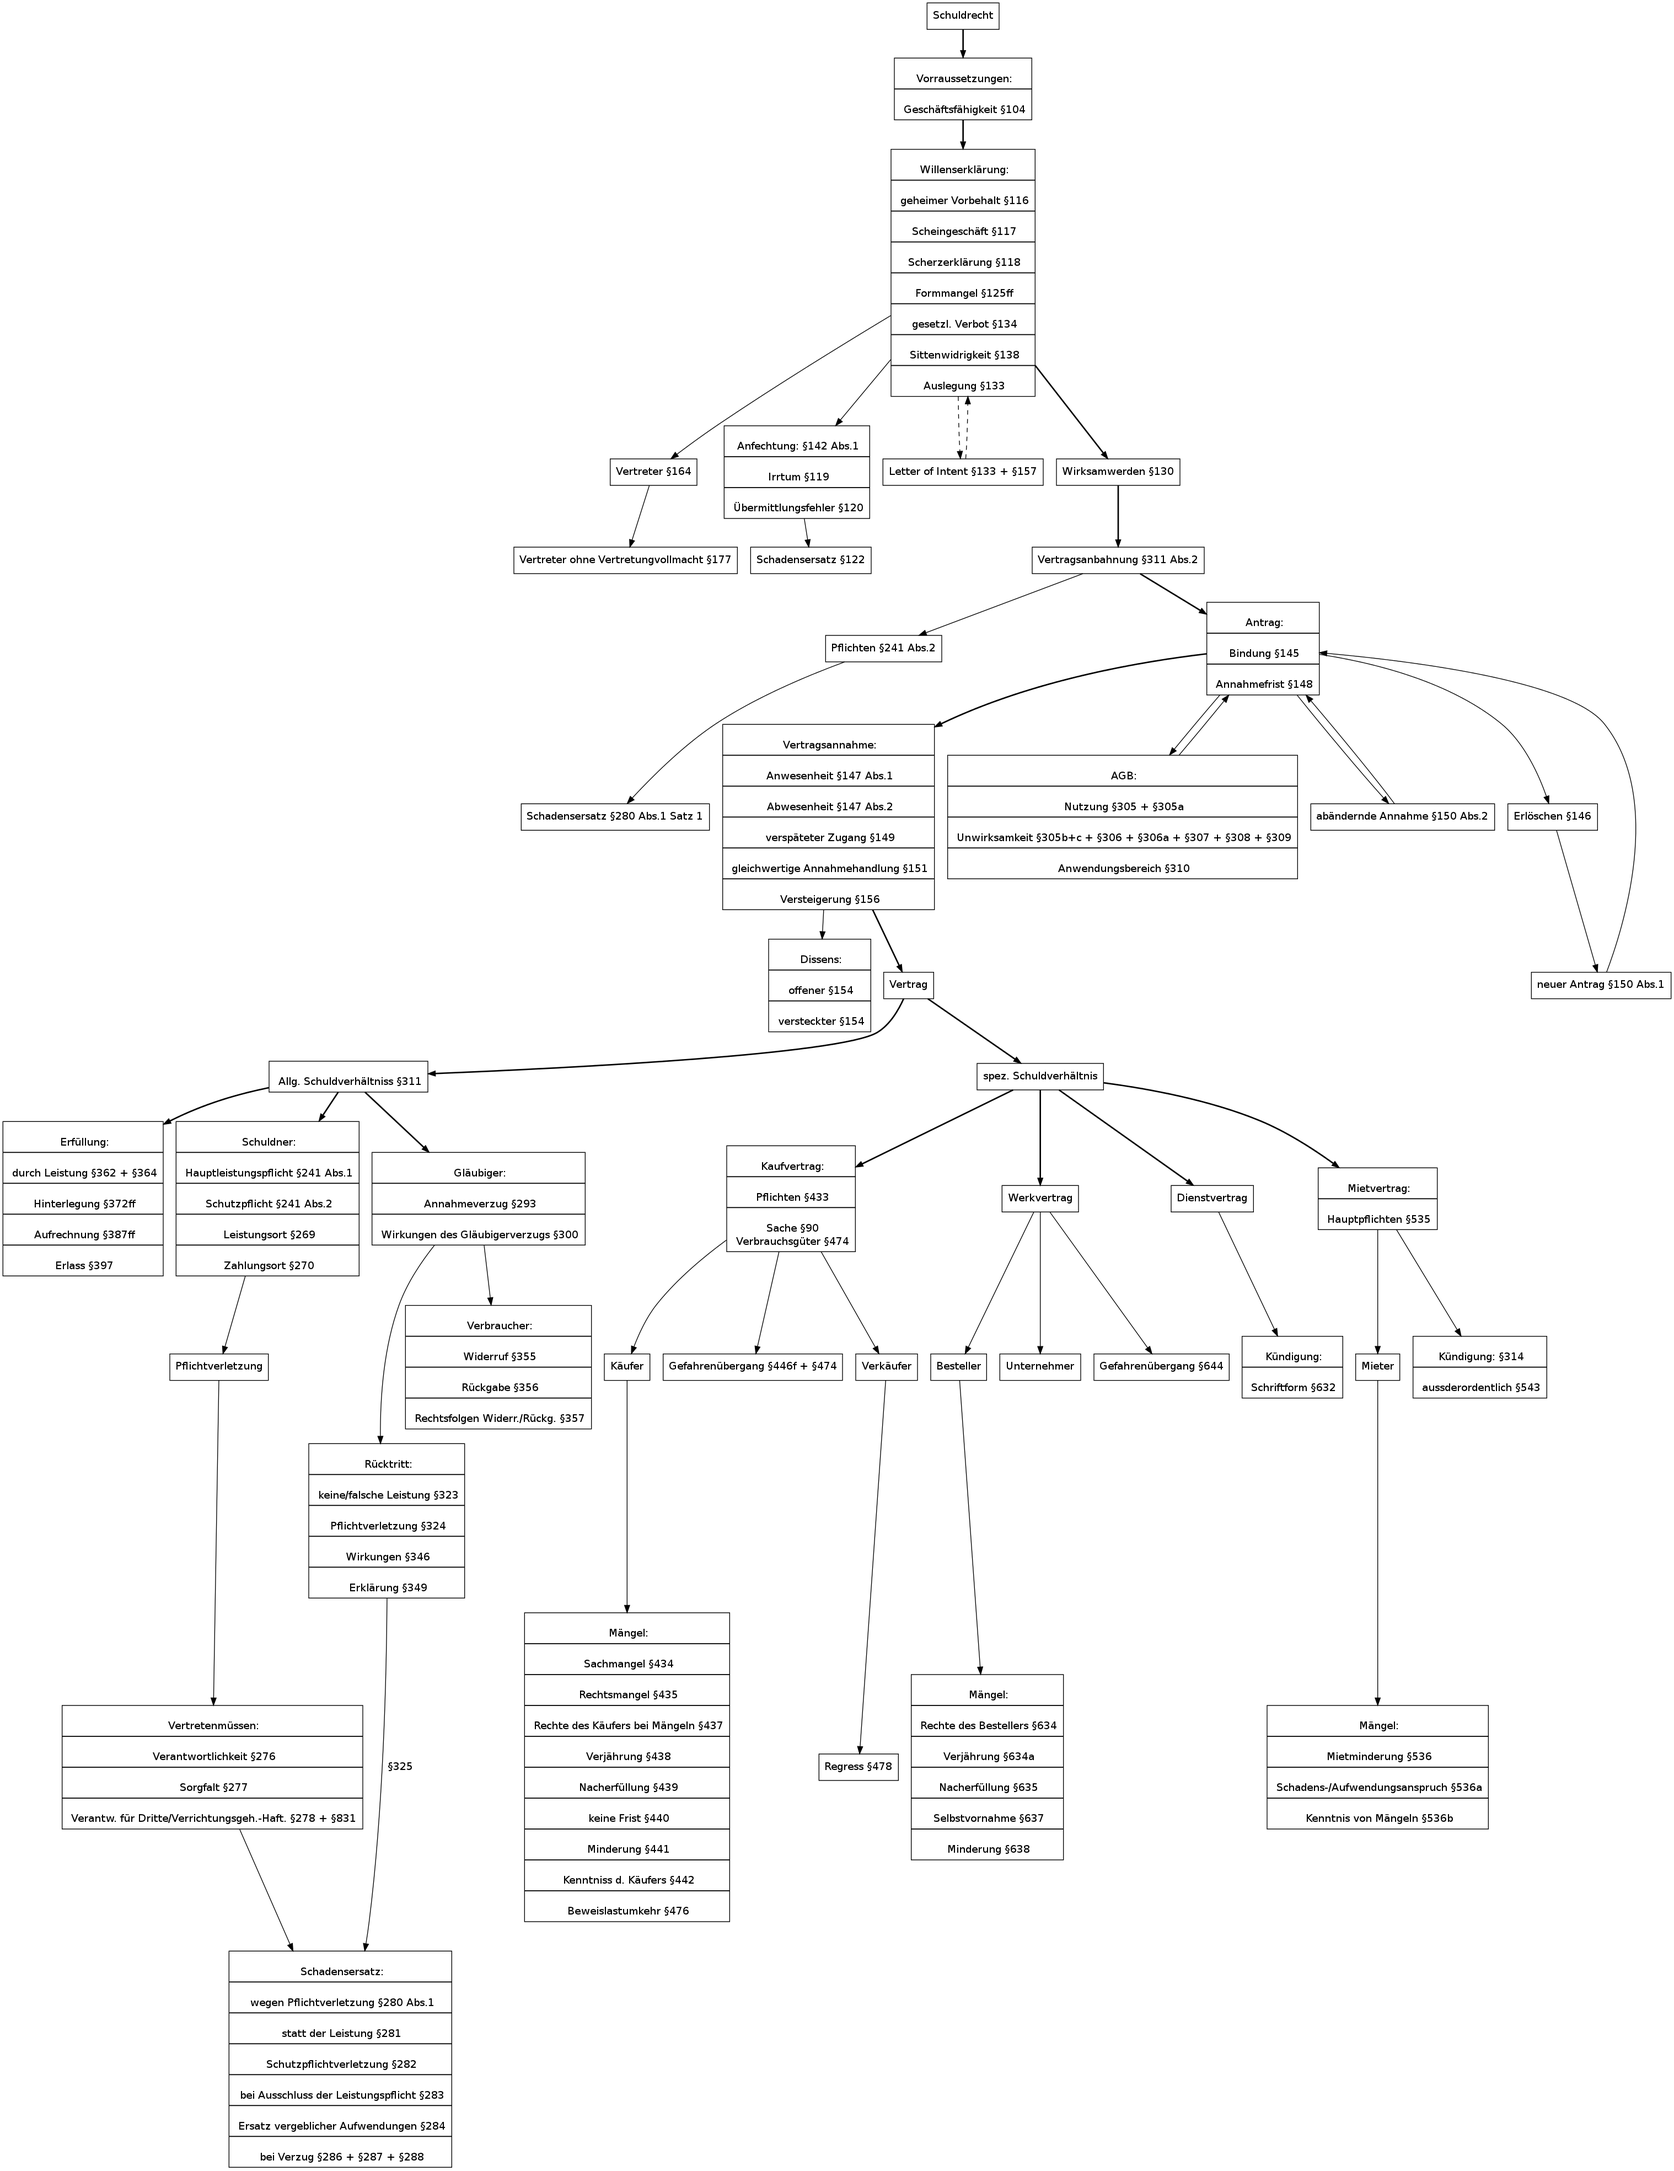
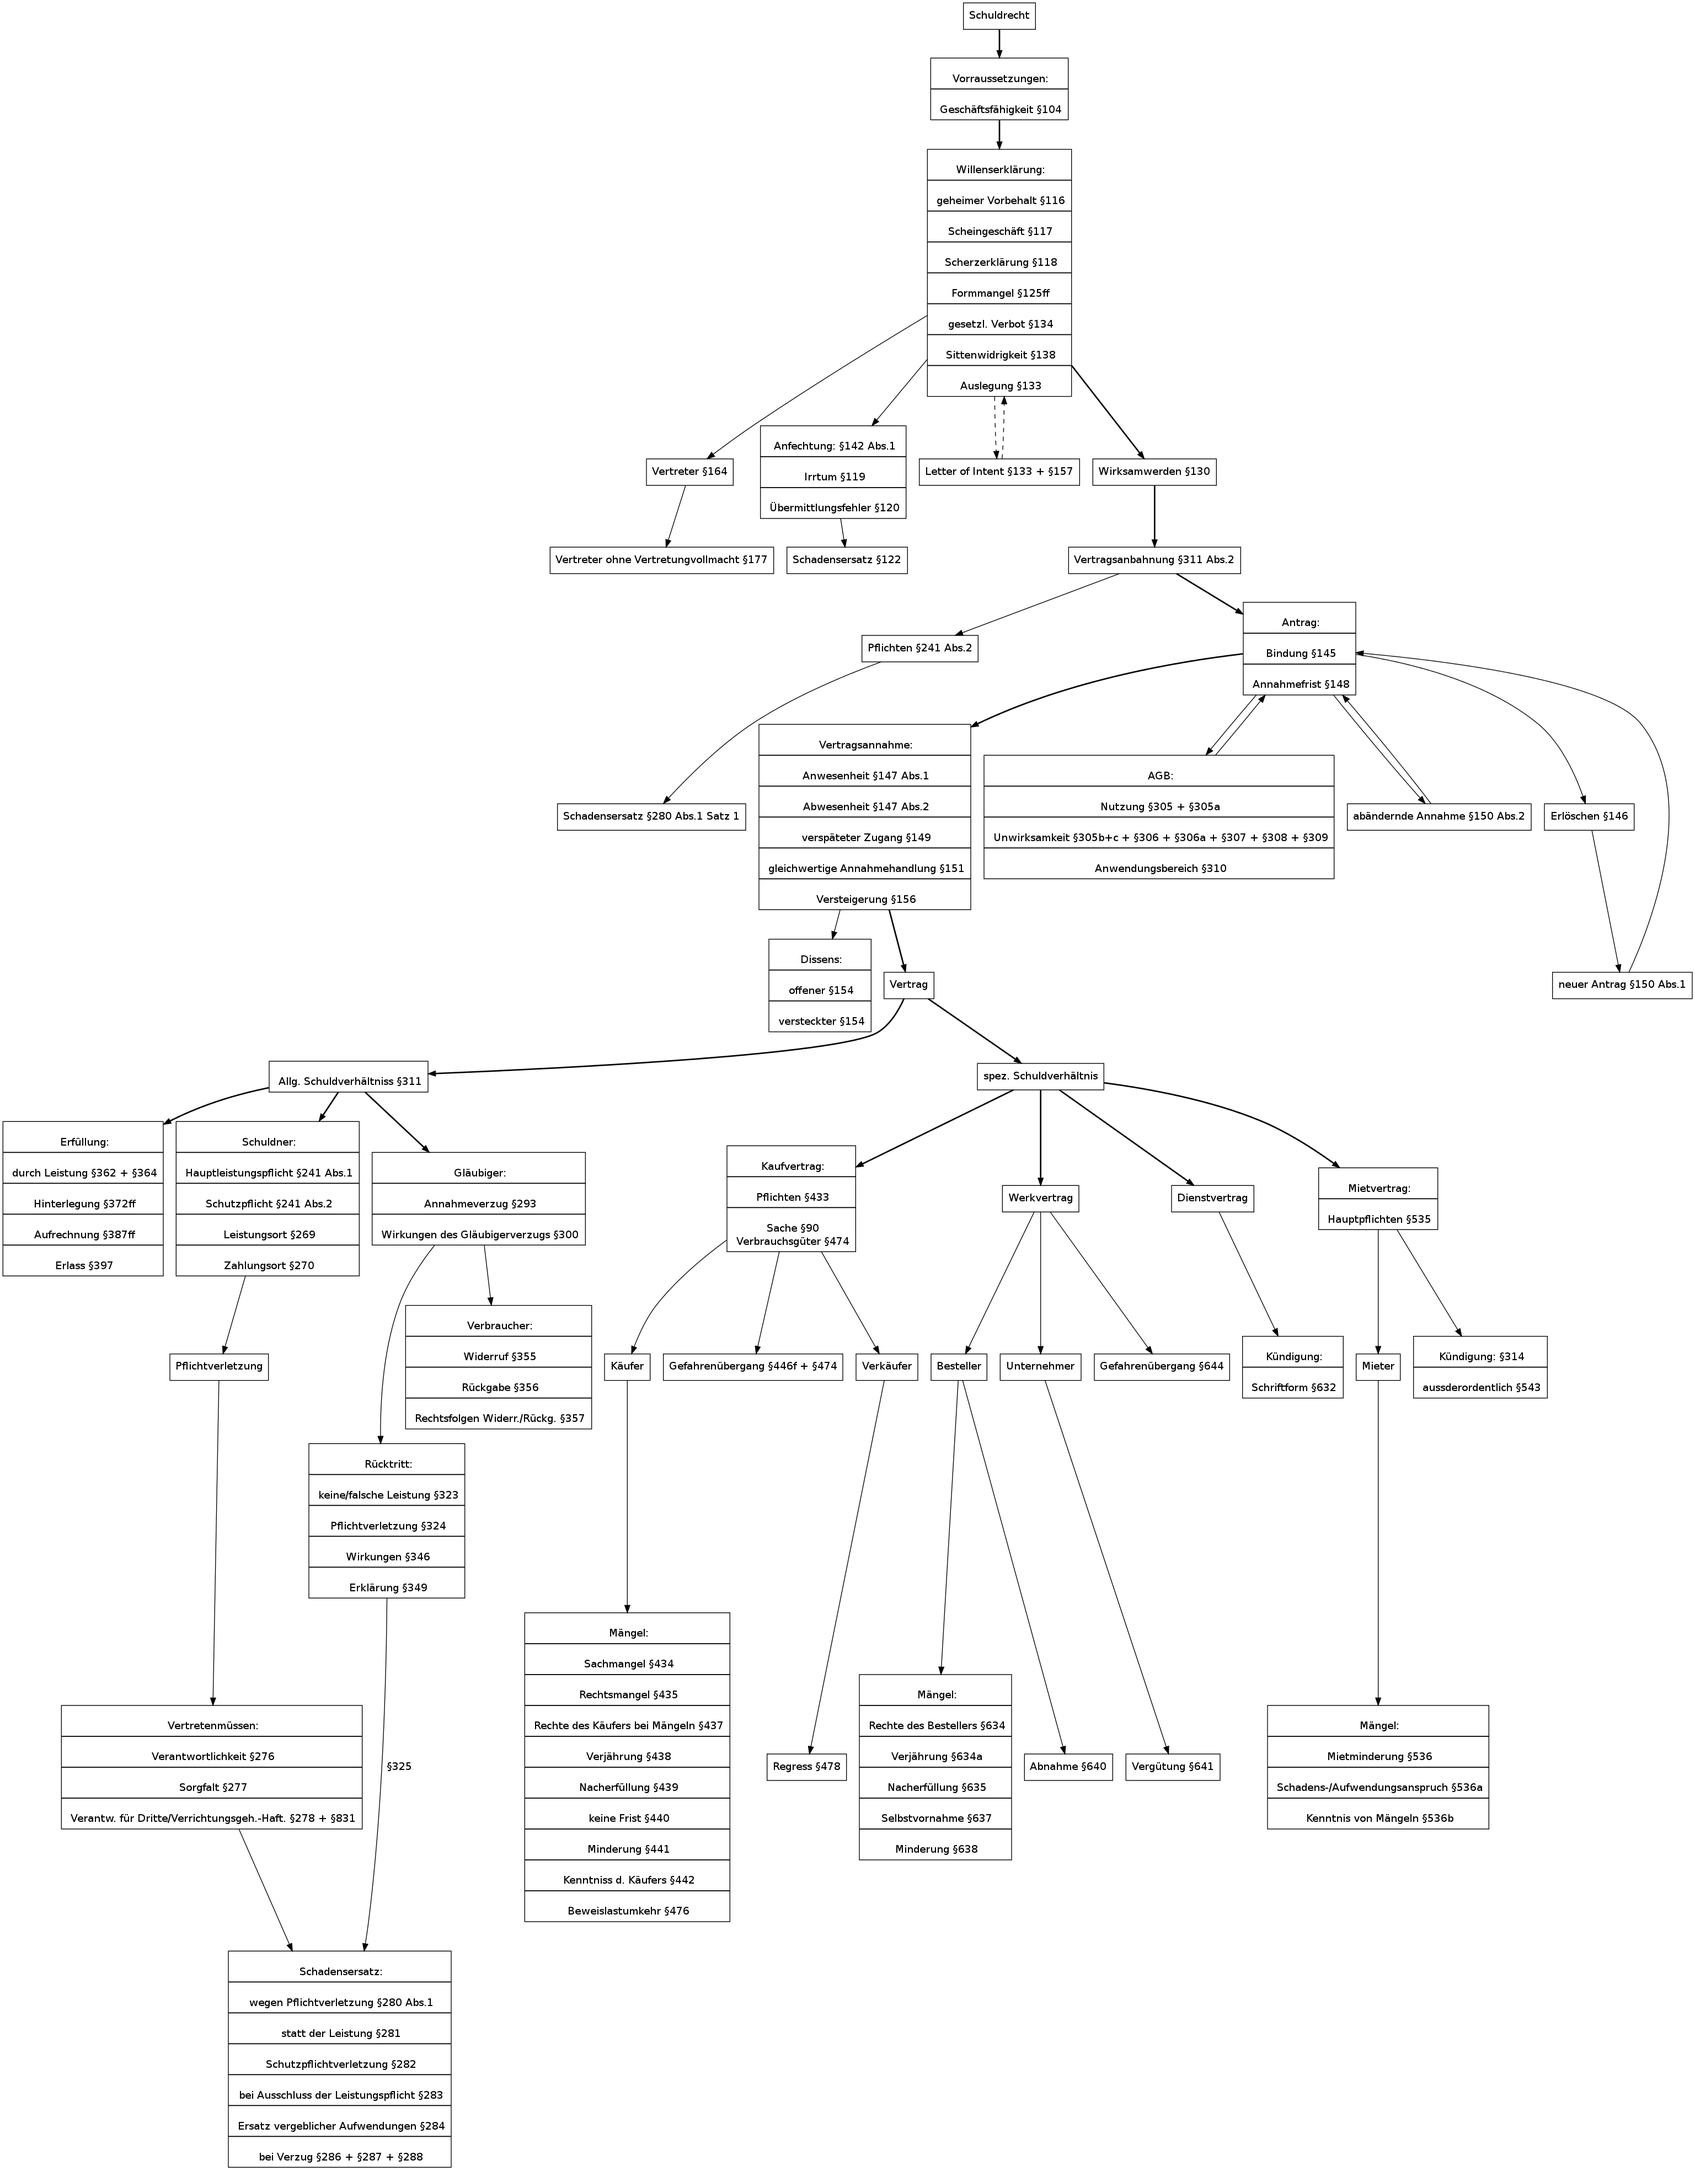
wv maengel

diff --git a/graph.rb b/graph.rb
@@ -142,6 +142,8 @@ wv_maengel = g.add_nodes( "Mängel_dv", "shape" => "record", "label" => "{
   Nacherfüllung §635 |
   Selbstvornahme §637 |
   Minderung §638}")
+wv_abnahme = g.add_nodes("Abnahme §640")
+wv_verguetung = g.add_nodes("Vergütung §641")
 
 dv = g.add_nodes( "Dienstvertrag" )
 dv_kuendigung = g.add_nodes( "Kündigung_dv", "shape" => "record", "label" => "{
@@ -212,6 +214,8 @@ g.add_edges( wv, wv_besteller)
 g.add_edges( wv, wv_unternehmer)
 g.add_edges( wv, wv_gefahr)
 g.add_edges( wv_besteller, wv_maengel)
+g.add_edges( wv_besteller, wv_abnahme)
+g.add_edges( wv_unternehmer, wv_verguetung)
 
 g.add_edges( spez_schuldverh, dv , "style" => "bold")
 g.add_edges( dv, dv_kuendigung)
